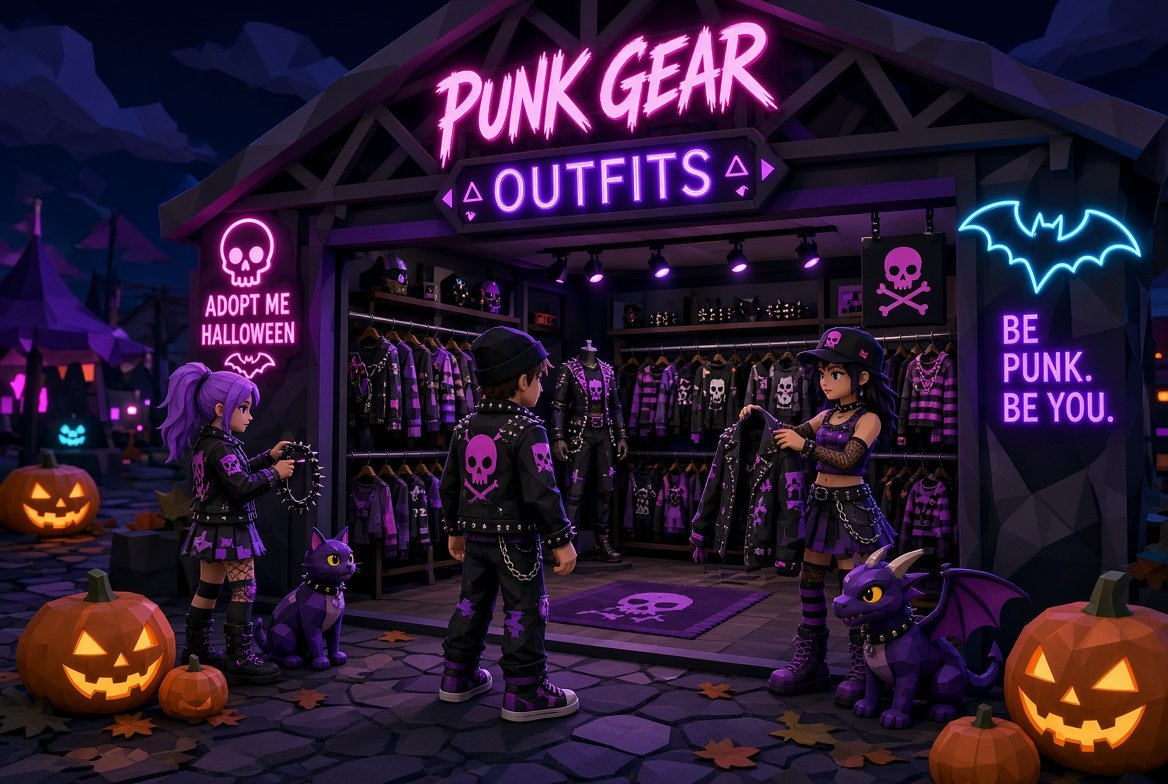
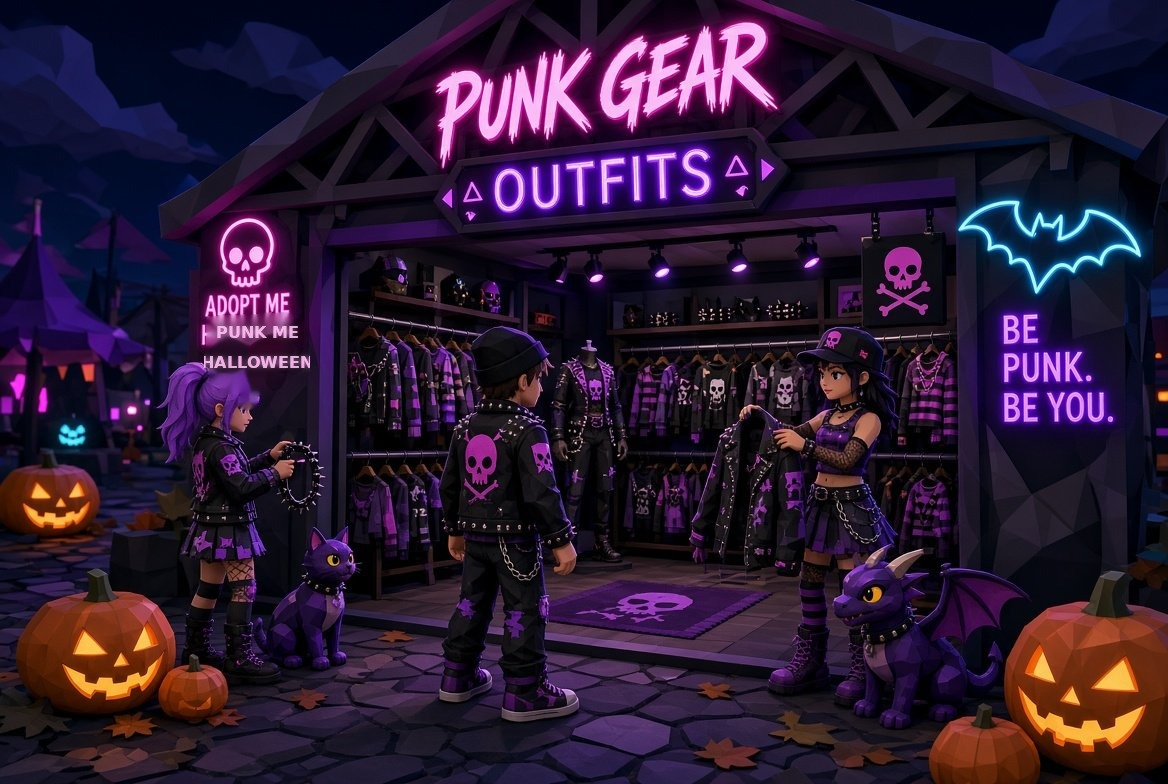
fix(assets): remove Adopt Me text from cemetery poster (main-only)
Four-file PR from main: patched RgdDh.jpg, OpenCV inpaint + neon text,
brand scan script, report. No QA artifacts or gameplay code.

Changed region(s): [[0.1541, 0.398, 0.2774, 0.5204]]

diff --git a/scripts/patch-rgdh-poster.py b/scripts/patch-rgdh-poster.py
@@ -1,0 +1,150 @@
+#!/usr/bin/env python3
+"""Remove «ADOPT ME HALLOWEEN» from imagine_images/RgdDh.jpg — text-only inpaint + neon replacement."""
+from __future__ import annotations
+
+import argparse
+import subprocess
+import sys
+from pathlib import Path
+
+import cv2
+import numpy as np
+from PIL import Image, ImageDraw, ImageFilter, ImageFont
+
+ROOT = Path(__file__).resolve().parents[1]
+DEFAULT_SRC = ROOT / "imagine_images" / "RgdDh.jpg"
+BACKUP_NAME = "RgdDh.jpg.bak-pre-brand-fix"
+
+TEXT_Y0, TEXT_Y1 = 315, 402
+TEXT_X0, TEXT_X1 = 212, 302
+SKULL_Y_MAX = 322
+BAT_Y_MIN = 448
+CROP_PAD = 12
+NEON_LINES = ("PUNK ME", "HALLOWEEN")
+
+
+def pink_mask_bgr(bgr: np.ndarray) -> np.ndarray:
+    hsv = cv2.cvtColor(bgr, cv2.COLOR_BGR2HSV)
+    return cv2.inRange(hsv, (140, 70, 110), (175, 255, 255))
+
+
+def build_text_inpaint_mask(bgr: np.ndarray) -> np.ndarray:
+    pink = pink_mask_bgr(bgr)
+    roi = pink[TEXT_Y0:TEXT_Y1, TEXT_X0:TEXT_X1]
+    mask_roi = np.zeros_like(roi)
+    n, labels, stats, _ = cv2.connectedComponentsWithStats(roi, connectivity=8)
+    for i in range(1, n):
+        _x, y, _w, h, area = stats[i]
+        if area < 28:
+            continue
+        cy = y + h / 2 + TEXT_Y0
+        if cy <= SKULL_Y_MAX or cy >= BAT_Y_MIN:
+            continue
+        mask_roi[labels == i] = 255
+    band = np.zeros_like(pink)
+    band[TEXT_Y0:TEXT_Y1, TEXT_X0:TEXT_X1] = mask_roi
+    band = cv2.morphologyEx(band, cv2.MORPH_CLOSE, np.ones((5, 3), np.uint8))
+    return cv2.dilate(band, np.ones((7, 5), np.uint8), iterations=2)
+
+
+def inpaint_sign_background(bgr: np.ndarray, mask: np.ndarray) -> np.ndarray:
+    m = cv2.dilate(mask, np.ones((5, 5), np.uint8), iterations=1)
+    return cv2.inpaint(bgr, m, 6, cv2.INPAINT_NS)
+
+
+def _load_font(size: int) -> ImageFont.FreeTypeFont | ImageFont.ImageFont:
+    for path in (
+        "/usr/share/fonts/truetype/dejavu/DejaVuSans-Bold.ttf",
+        "/usr/share/fonts/truetype/liberation/LiberationSans-Bold.ttf",
+    ):
+        try:
+            return ImageFont.truetype(path, size)
+        except OSError:
+            continue
+    return ImageFont.load_default()
+
+
+def draw_neon_lines(bgr: np.ndarray) -> np.ndarray:
+    h, w = bgr.shape[:2]
+    x0, y0 = TEXT_X0 - 8, TEXT_Y0 - 6
+    x1, y1 = TEXT_X1 + 8, TEXT_Y1 + 8
+    crop_bgr = bgr[y0:y1, x0:x1].copy()
+    ch, cw = crop_bgr.shape[:2]
+    layer = Image.new("RGBA", (cw, ch), (0, 0, 0, 0))
+    draw = ImageDraw.Draw(layer)
+    font = _load_font(16)
+    cx = (TEXT_X0 + TEXT_X1) // 2 - x0
+    for y, line in ((332 - y0, NEON_LINES[0]), (362 - y0, NEON_LINES[1])):
+        draw.text((cx, y), line, font=font, fill=(255, 118, 228, 255), anchor="mm")
+        draw.text((cx, y), line, font=font, fill=(255, 200, 245, 220), anchor="mm")
+    glow = layer.filter(ImageFilter.GaussianBlur(radius=3.2))
+    glow2 = layer.filter(ImageFilter.GaussianBlur(radius=6.5))
+    neon = Image.alpha_composite(Image.alpha_composite(glow2, glow), layer)
+    alpha = np.array(neon.split()[-1], dtype=np.float32) / 255.0
+    neon_rgb = np.array(neon.convert("RGB"), dtype=np.float32)
+    base_rgb = cv2.cvtColor(crop_bgr, cv2.COLOR_BGR2RGB).astype(np.float32)
+    blended = base_rgb * (1 - alpha[..., None]) + neon_rgb * alpha[..., None]
+    out = bgr.copy()
+    out[y0:y1, x0:x1] = cv2.cvtColor(blended.astype(np.uint8), cv2.COLOR_RGB2BGR)
+    return out
+
+
+def save_proof_crops(before: np.ndarray, after: np.ndarray, out_dir: Path) -> None:
+    out_dir.mkdir(parents=True, exist_ok=True)
+    y0, y1 = TEXT_Y0 - CROP_PAD - 40, TEXT_Y1 + CROP_PAD + 55
+    x0, x1 = TEXT_X0 - CROP_PAD - 25, TEXT_X1 + CROP_PAD + 35
+    y0, x0 = max(0, y0), max(0, x0)
+    cv2.imwrite(str(out_dir / "brand-rgdh-crop-before.jpg"), before[y0:y1, x0:x1])
+    cv2.imwrite(str(out_dir / "brand-rgdh-crop-after.jpg"), after[y0:y1, x0:x1])
+
+
+def ocr_contains_adopt(path: Path) -> bool:
+    try:
+        text = subprocess.check_output(
+            ["tesseract", str(path), "stdout", "-l", "eng"],
+            stderr=subprocess.DEVNULL,
+            text=True,
+        )
+    except (subprocess.CalledProcessError, FileNotFoundError):
+        return False
+    return "adopt" in text.lower()
+
+
+def patch_image(src: Path) -> tuple[np.ndarray, np.ndarray]:
+    before = cv2.imread(str(src))
+    if before is None or before.shape[1] != 1168 or before.shape[0] != 784:
+        raise SystemExit("bad image or size")
+    mask = build_text_inpaint_mask(before)
+    mid = inpaint_sign_background(before, mask)
+    after = draw_neon_lines(mid)
+    cv2.imwrite(str(src), after, [int(cv2.IMWRITE_JPEG_QUALITY), 92])
+    return before, after
+
+
+def main() -> None:
+    ap = argparse.ArgumentParser()
+    ap.add_argument("--src", type=Path, default=DEFAULT_SRC)
+    ap.add_argument("--proof-dir", type=Path, default=None)
+    ap.add_argument("--restore-backup", action="store_true")
+    args = ap.parse_args()
+    src = args.src
+    backup = src.parent / BACKUP_NAME
+    if args.restore_backup and backup.exists():
+        src.write_bytes(backup.read_bytes())
+    elif not backup.exists() and src.exists():
+        backup.write_bytes(src.read_bytes())
+    before, after = patch_image(src)
+    if args.proof_dir:
+        save_proof_crops(before, after, args.proof_dir)
+    if ocr_contains_adopt(src):
+        sys.exit(2)
+    crop = src.parent / "_ocr_crop.jpg"
+    cv2.imwrite(str(crop), after[TEXT_Y0 - 20 : TEXT_Y1 + 30, TEXT_X0 - 15 : TEXT_X1 + 15])
+    if ocr_contains_adopt(crop):
+        sys.exit(2)
+    crop.unlink(missing_ok=True)
+    print(f"OK patched {src}")
+
+
+if __name__ == "__main__":
+    main()

diff --git a/docs/release/BRAND_ASSET_SCAN.md b/docs/release/BRAND_ASSET_SCAN.md
@@ -1,0 +1,58 @@
+# Brand cleanup — `imagine_images/RgdDh.jpg` (PR #47)
+
+| | |
+|--|--|
+| **Branch** | `cursor/brand-cleanup-d81d` (**from `origin/main` @ `450d6da` only**) |
+| **Draft PR** | [#47](https://github.com/garum2008-netizen/punk-me-firebase/pull/47) |
+| **Head SHA** | `8f49b1e` |
+| **changed_files** | **4** |
+| **Deploy** | нет |
+
+## Файлы в PR (только эти 4)
+
+1. `imagine_images/RgdDh.jpg`
+2. `scripts/patch-rgdh-poster.py`
+3. `scripts/scan-imagine-brands.mjs`
+4. `docs/release/BRAND_ASSET_SCAN.md`
+
+## Патч изображения
+
+- Inpaint **только** розовые компоненты текста «ADOPT ME HALLOWEEN» (`cy` между черепом и летучей мышью).
+- Череп, летучая мышь, девочка, кот, прилавок — вне маски.
+- Новый текст: неон **PUNK ME** / **HALLOWEEN** (blur-glow + core), 1168×784.
+
+### Proof (не коммитится)
+
+```bash
+python3 scripts/patch-rgdh-poster.py --restore-backup --proof-dir /opt/cursor/artifacts
+```
+
+Кропы: `/opt/cursor/artifacts/brand-rgdh-crop-before.jpg`, `brand-rgdh-crop-after.jpg`.
+
+### OCR
+
+| | Результат |
+|--|-----------|
+| `imagine_images/RgdDh.jpg` после патча | `grep -i adopt` на tesseract stdout → **пусто** |
+| `node scripts/scan-imagine-brands.mjs` | **hits: []** |
+
+## Находки брендов
+
+| # | Файл | Строка / область | Находка | Действие |
+|---|------|------------------|---------|----------|
+| 1 | `imagine_images/RgdDh.jpg` | неон столб ~212–302×315–402 | **ADOPT ME HALLOWEEN** | **исправлено** |
+| 2 | остальные `imagine_images/*.jpg` | OCR | чужие бренды | нет |
+| 3 | `js/i18n.js` | `auth_google`, `audio_youtube_narrator*` | Google / YouTube | сервис продукта |
+| 4 | `data/story/dialogues.json` | — | Adopt Me / Roblox | нет |
+| 5 | `docs/**` | ТЗ | Roblox и др. | не HUD |
+
+## PR #43 / #44
+
+| Ветка | PR | `RgdDh.jpg` до #47 |
+|-------|-----|-------------------|
+| `cursor/scenario-preview-d81d` | **#43** | 185368 B, Adopt Me |
+| `cursor/roblox-ep1-d99c` | **#44** | 185368 B, Adopt Me |
+
+Код: `js/game.js` (cemetery bg), `js/world/location-enrich.mjs` (~500).
+
+**PR #43:** не пушить (QA freeze).
